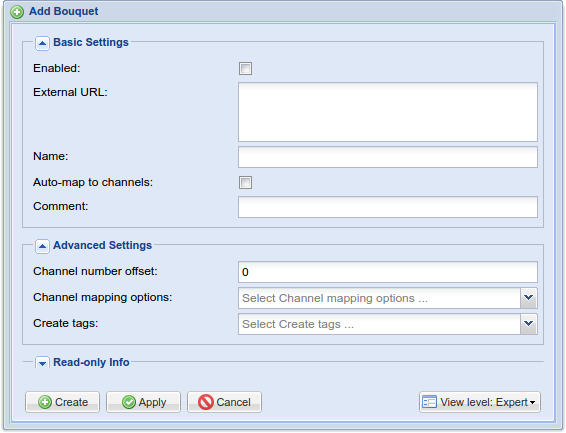
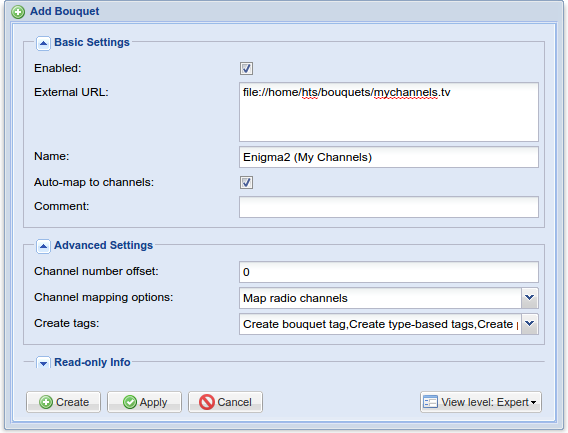
mdhelp: add note about importing enigma2 to bouquets + update example

diff --git a/docs/class/bouquet.md b/docs/class/bouquet.md
@@ -5,8 +5,8 @@ Bouquets are broadcaster-defined groupings and orders of channels.
 To use bouquets, ensure to add and scan all available muxes using the
 predefined muxes or manual configuration.
 
-The bouquets are obtained automatically from the DVB source during the
-mux scan period. Note that bouquets may use more muxes and only services
+Bouquets are usually obtained automatically from the DVB source during the
+mux scan period. Note that bouquets may use more muxes and only services 
 from scanned muxes are added. The mux with bouquets might require
 another scan when all muxes are discovered (manually using the rescan
 checkbox).
@@ -14,6 +14,8 @@ checkbox).
 The fastscan bouquets are pre-defined in the configuration tree. These
 bouquets must be manually enabled to let Tvheadend to subscribe and
 listen to the specific MPEG-TS PIDs.
+
+You may import your own bouquet using enigma2 (.tv) formatted files.
 
 ---
 
@@ -31,7 +33,11 @@ Button         | Function
 
 <tvh_include>inc/add_grid_entry</tvh_include>
 
+####Example
+
 !['Add Bouquet Dialog'](static/img/doc/bouquetadd.png)
+
+Note that the URL must begin with `file://` or `http(s)://`.
 
 ---
 
